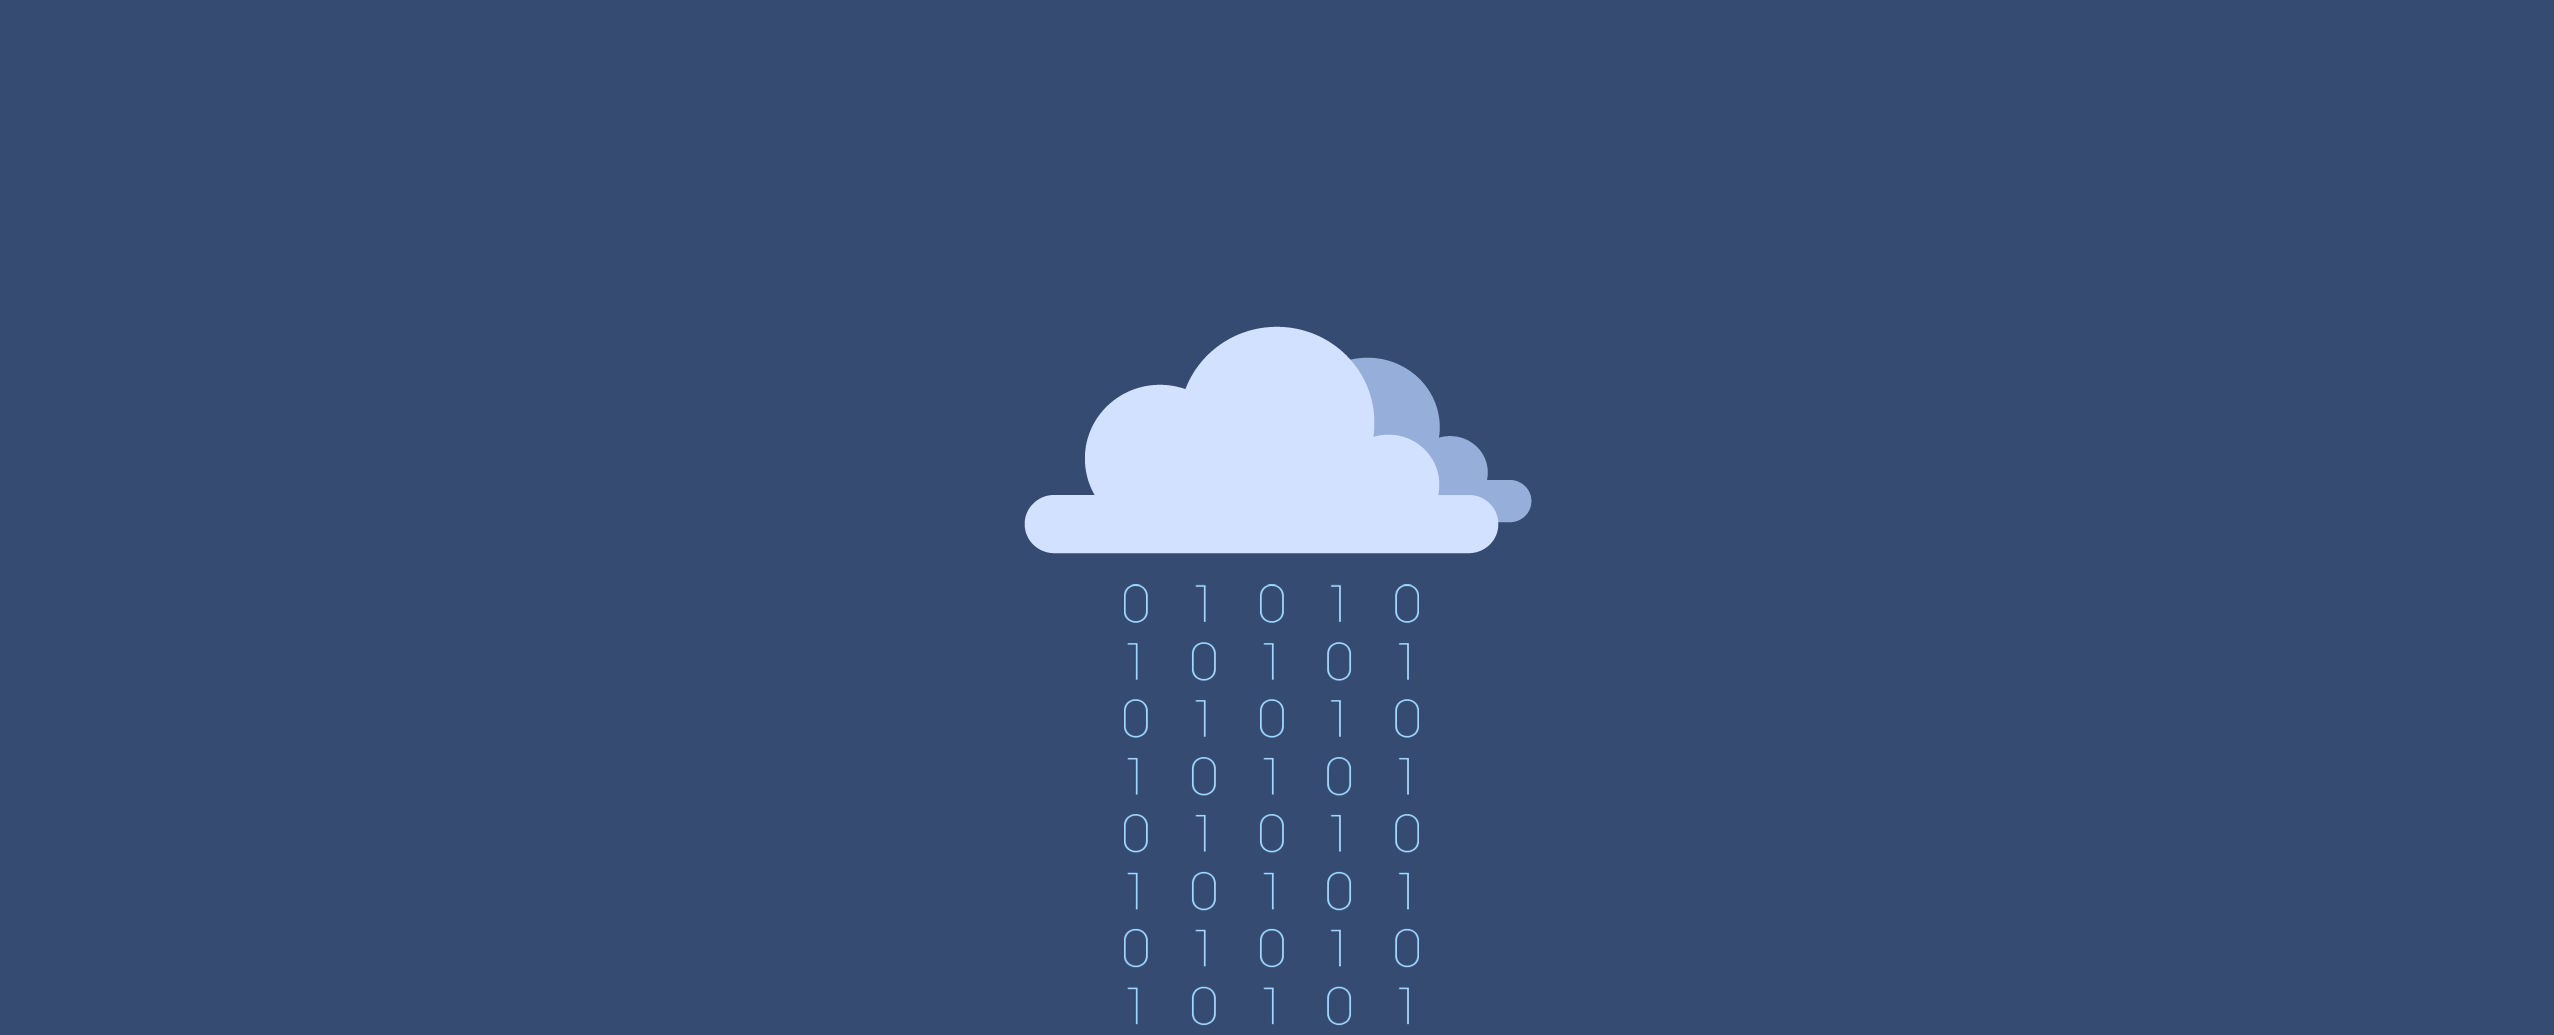
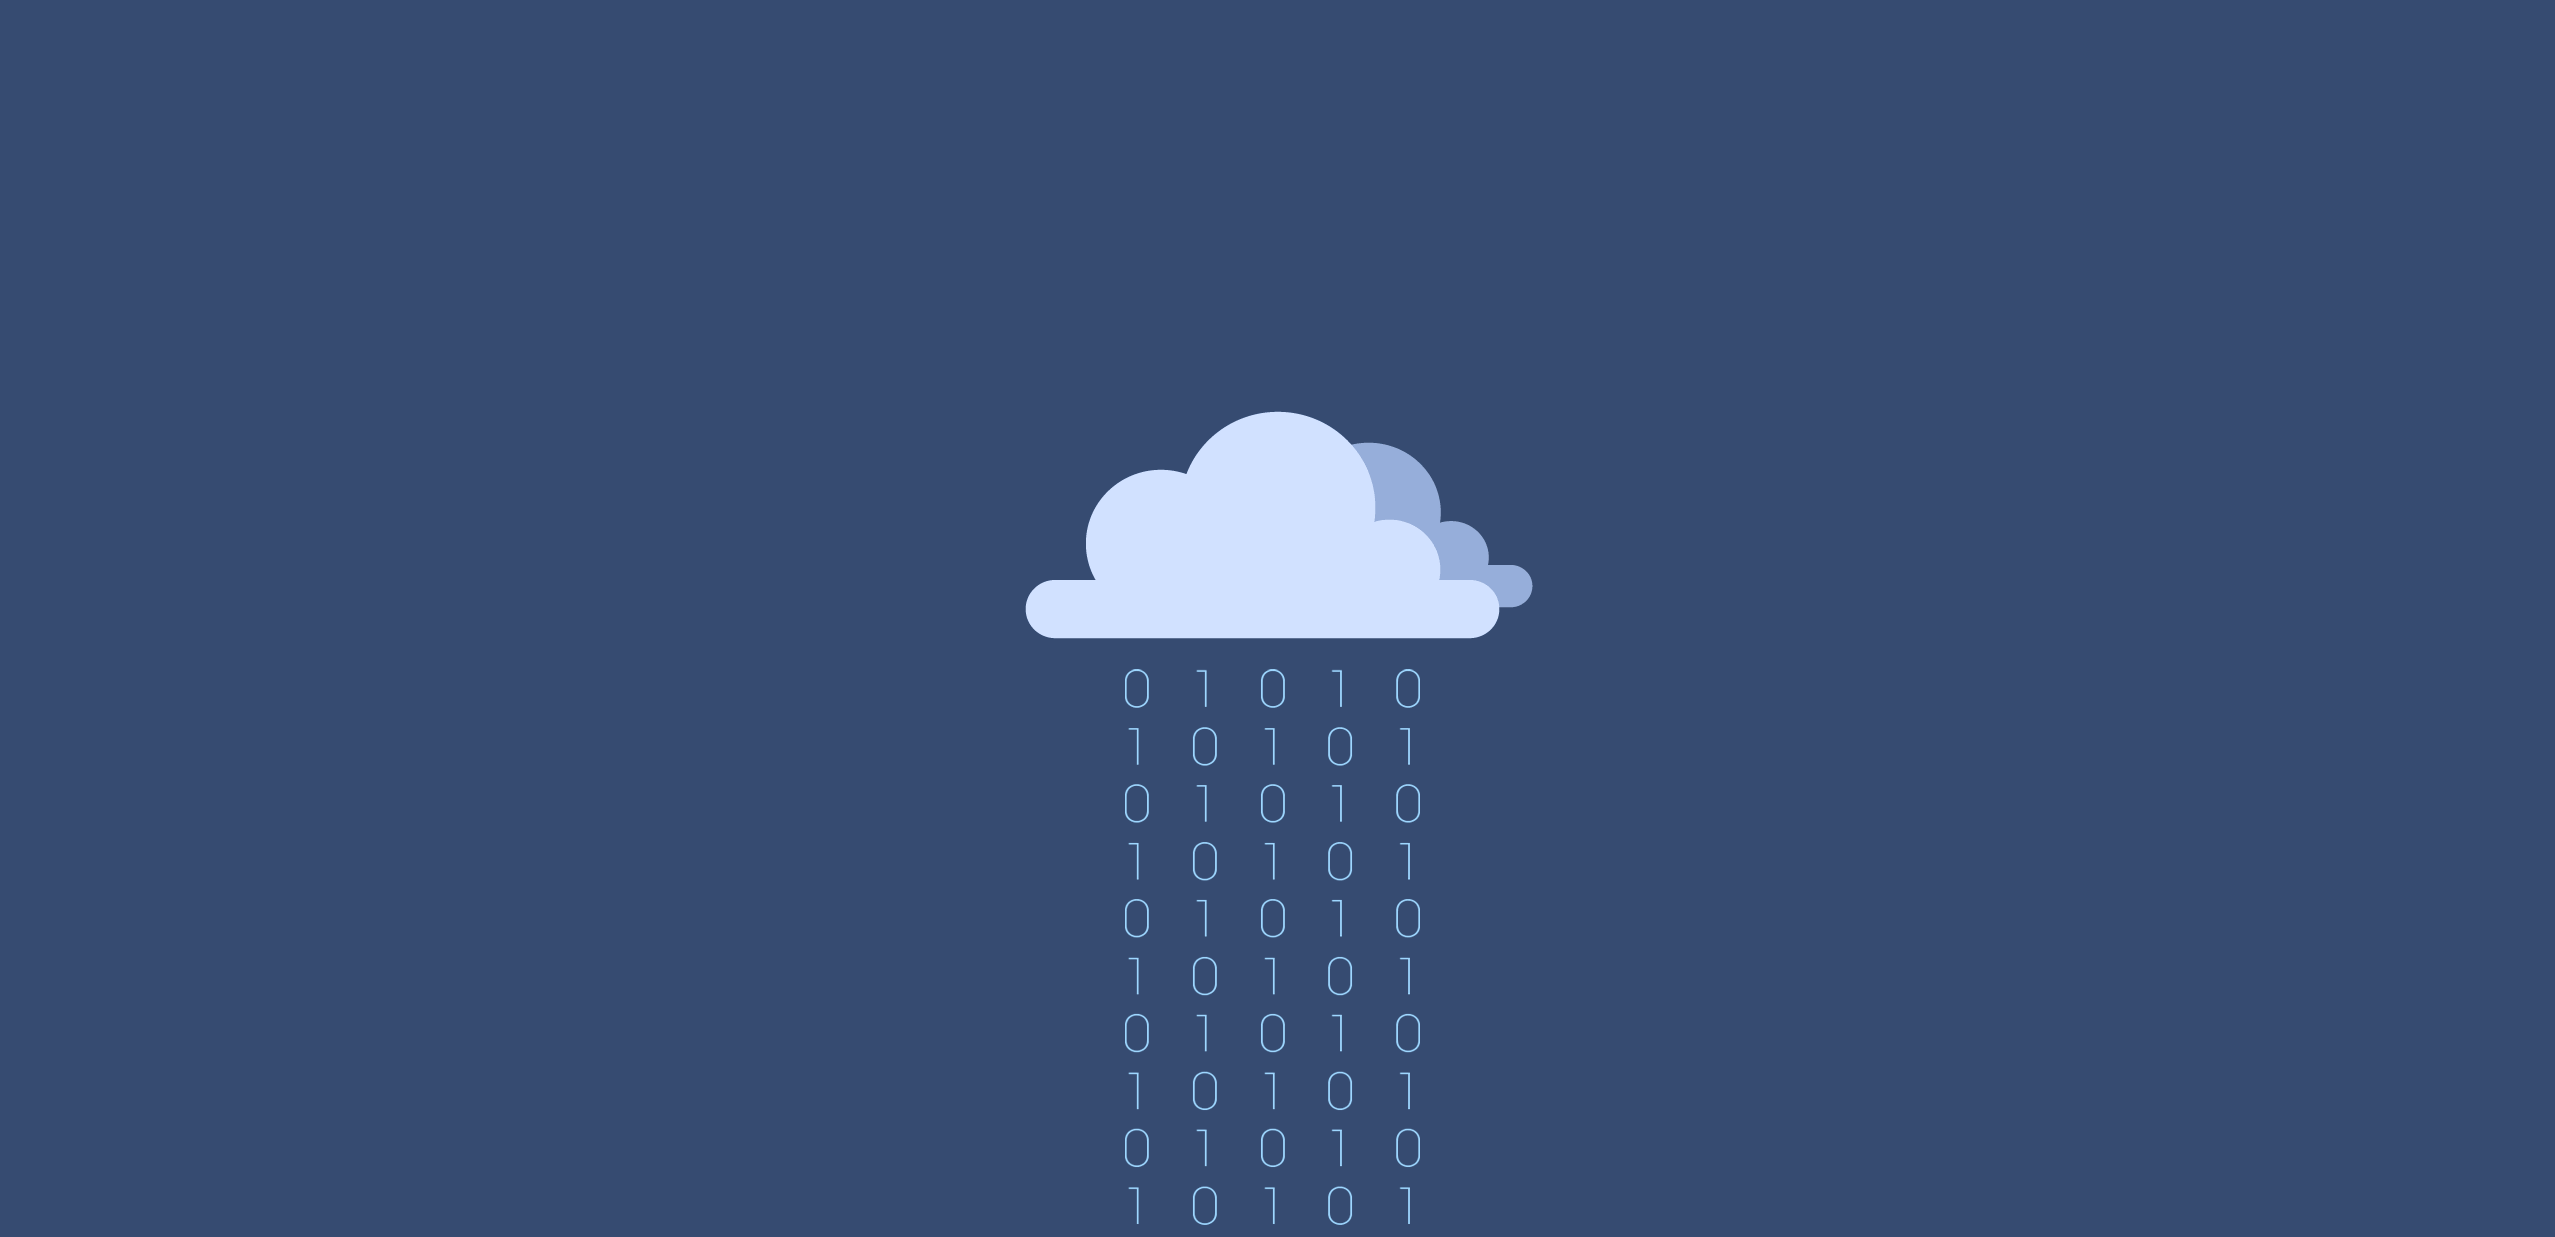
Removed extra image

diff --git a/index.html b/index.html
@@ -30,7 +30,7 @@
     </nav>
 
     <header>
-        <img src="images/codecloud2.png" class="img-fluid" alt="Image of cloud with code">
+        <img src="images/codecloud.png" class="img-fluid" alt="Image of cloud with code">
     </header>
 
     <div class="container-fluid" id="about-me">
